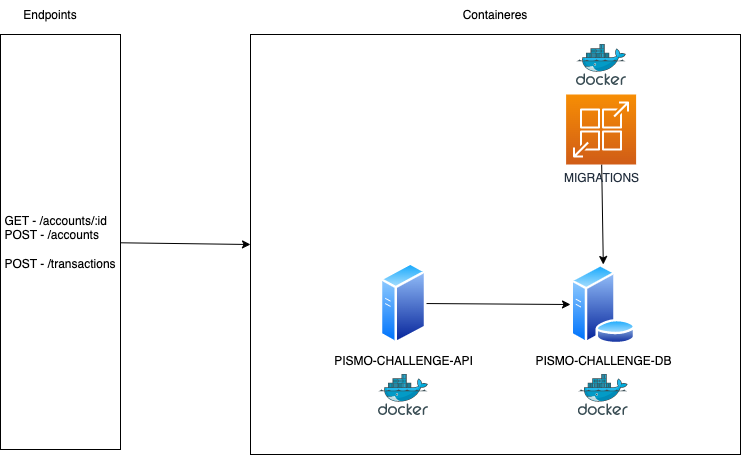
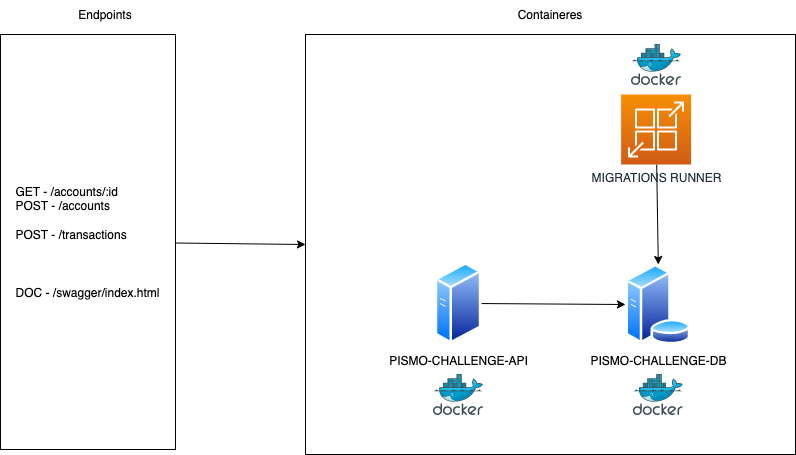
refact: some parts of the code

diff --git a/README.md b/README.md
@@ -25,6 +25,9 @@ Caso deseje derrubar os conteineres levantandos pelo comando acima, basta execut
 make stop-dev
 ```
 
+# Documentação da API
+A documentação da API foi feita usando o swagger, para acessar a documentação basta acessar, com a aplicação em execução, o seguinte link: http://localhost:8080/swagger/index.html
+
 # Como rodar os testes?
 Os comandos para execução de testes estão separados entre os testes unitários e os testes de integração.
 
